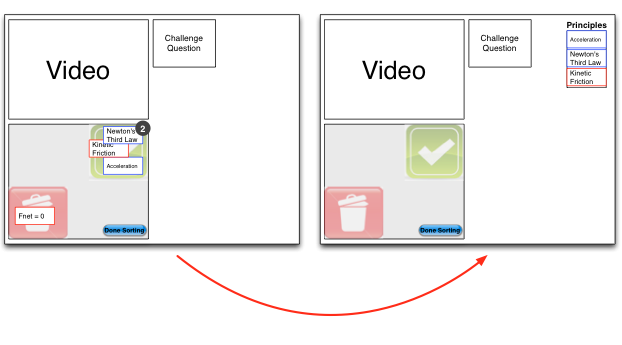
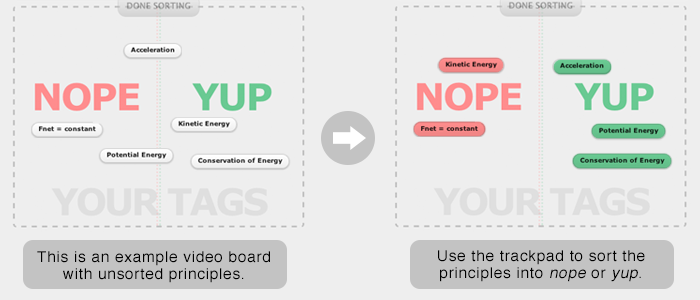
Updated image and copy on the sortPrinciple page.

diff --git a/smartroom/tablet/p-sortPrinciples.html b/smartroom/tablet/p-sortPrinciples.html
@@ -34,14 +34,18 @@
         </div>
 
         <div data-role="content">
-            <div class="text-align-center">
-                <img src="/assets/img/principle_sorting.png" />
+            <div class="text-align-center" style="width: ">
 
-                <p>Work with your group to sort the principles, found in the Negotiation Field in the bottom left, that were submitted by your peers during the last step.<p>
+                <br /><br />
+                <p>On the <strong>videoboard</strong>,<br />work with your group to sort the principles <br />that were submitted by your peers during the last step.</p>
 
-                <p>Drag the principles your group feels are connected to the video into the GREEN area of the Negotiation Field, and drag those you feel are not connected to the video into the RED area.</p>
+                <p>What principles apply to the challenge question you have been given?</p>
 
-                <p>Once your are finished your sort click on the "Done Sorting" button at the bottom of the Field.</p>
+                <br />
+
+                <img src="/assets/img/principle_sorting.png" width="700" height="300" alt="" />
+
+                <p>Once you are finished sorting, click "Done Sorting" on the video board.</p>
             </div>
 
             <!-- for UI_TESTING_ONLY -->
